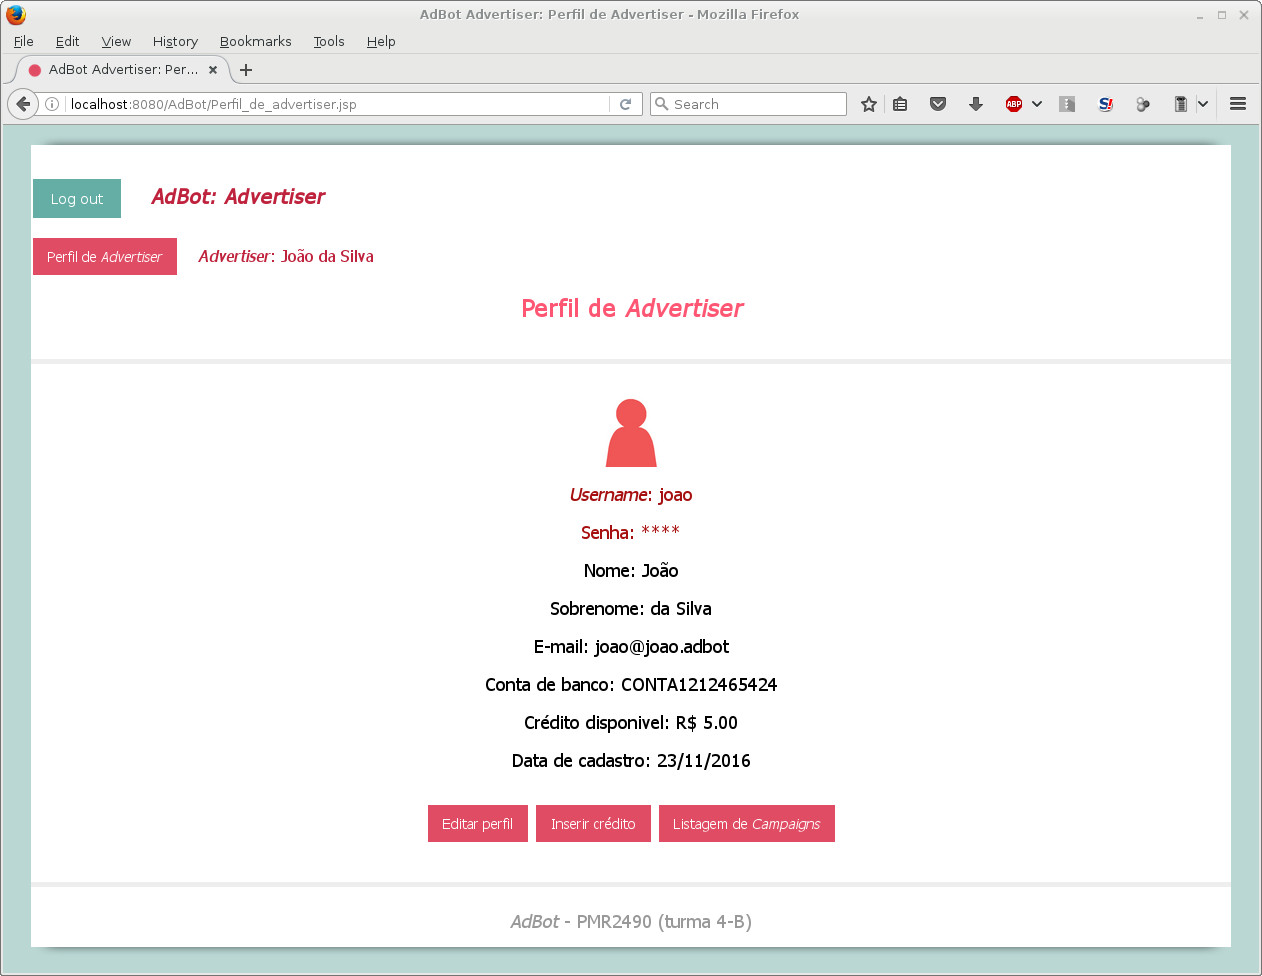
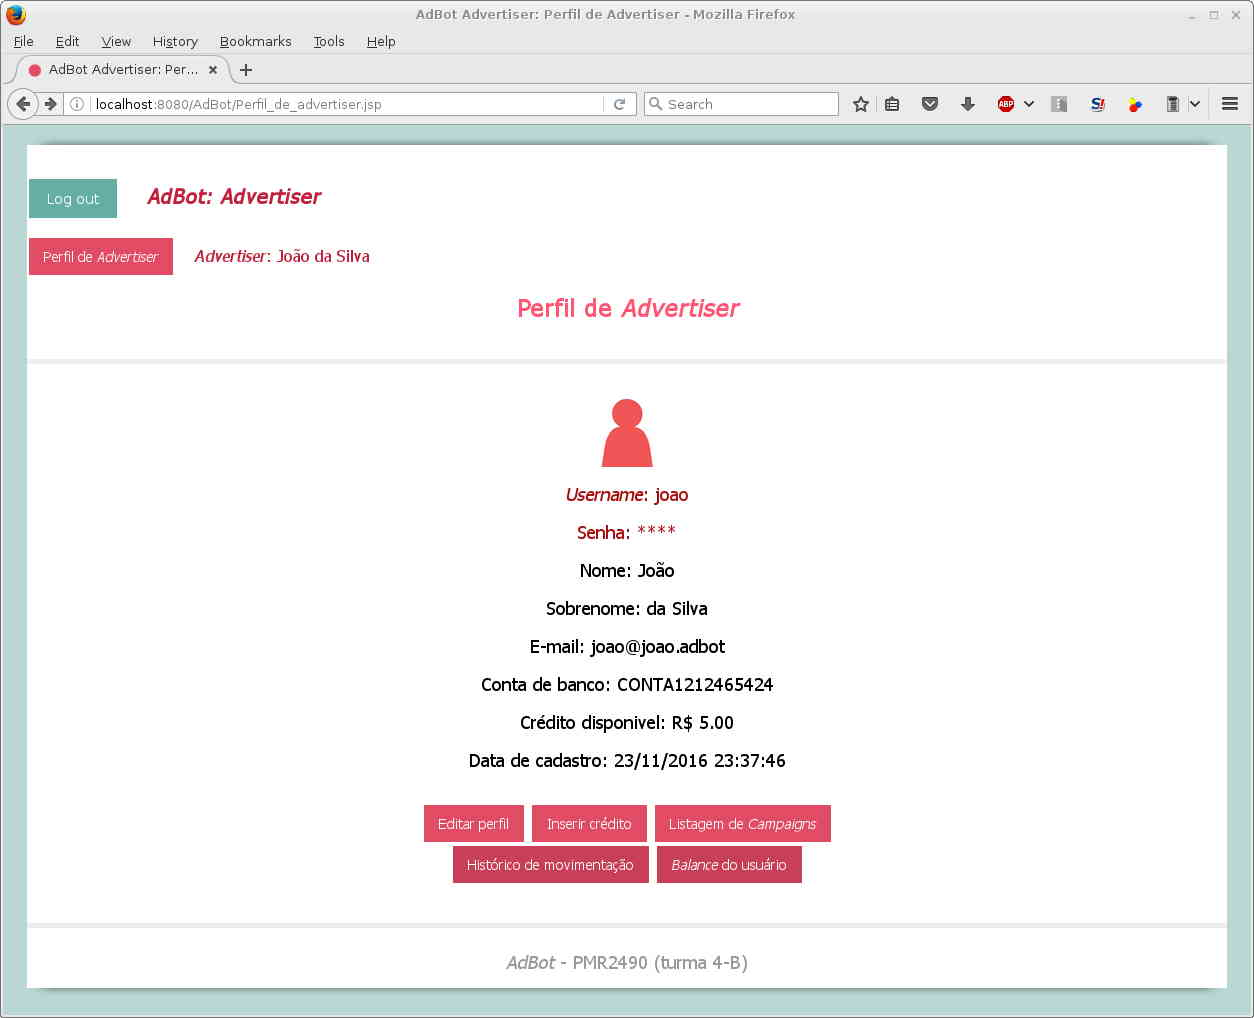
Inclusão de botões de Histórico e Balance em Perfil_de_advertiser.jsp e data com horário.

diff --git a/java_jsp/AdBot_projeto_JSP/AdBot/build/web/index.css b/java_jsp/AdBot_projeto_JSP/AdBot/build/web/index.css
@@ -77,7 +77,18 @@ hr {
     margin: 2px 2px;
     cursor: pointer;
 }   
-
+.button_balance {
+    background-color: #C84057;
+    border: none;
+    color: white;
+    padding: 10px 15px;
+    text-align: right;
+    text-decoration: none;
+    display: inline-block;
+    font-size: 14px;
+    margin: 2px 2px;
+    cursor: pointer;
+}   
 
 .button_play {
     background-color: #FF3F3F;

diff --git a/java_jsp/AdBot_projeto_JSP/AdBot/web/index.css b/java_jsp/AdBot_projeto_JSP/AdBot/web/index.css
@@ -77,7 +77,18 @@ hr {
     margin: 2px 2px;
     cursor: pointer;
 }   
-
+.button_balance {
+    background-color: #C84057;
+    border: none;
+    color: white;
+    padding: 10px 15px;
+    text-align: right;
+    text-decoration: none;
+    display: inline-block;
+    font-size: 14px;
+    margin: 2px 2px;
+    cursor: pointer;
+}   
 
 .button_play {
     background-color: #FF3F3F;

diff --git a/java_jsp/AdBot_projeto_JSP/AdBot/src/java/data_Model/UsuarioData.java b/java_jsp/AdBot_projeto_JSP/AdBot/src/java/data_Model/UsuarioData.java
@@ -79,7 +79,12 @@ public class UsuarioData {
         u.setE_mail(rs.getString("E_mail"));
         u.setConta_de_banco(rs.getString("Conta_de_banco"));
         u.setTipo_Usuario(rs.getString("Tipo_Usuario"));
-        u.setData_de_cadastro(rs.getDate("Data_de_cadastro"));
+        
+        // Armazenar a data de cadastro (dia e horário)
+        Timestamp stamp;
+        stamp = rs.getTimestamp("Data_de_cadastro");
+        u.setData_de_cadastro(new java.sql.Date(stamp.getTime()));
+        
         u.setBloqueio(rs.getInt("Bloqueio"));
 
         // O que é passado para visualização é a indicativa de quantidade de caracteres da senha 
